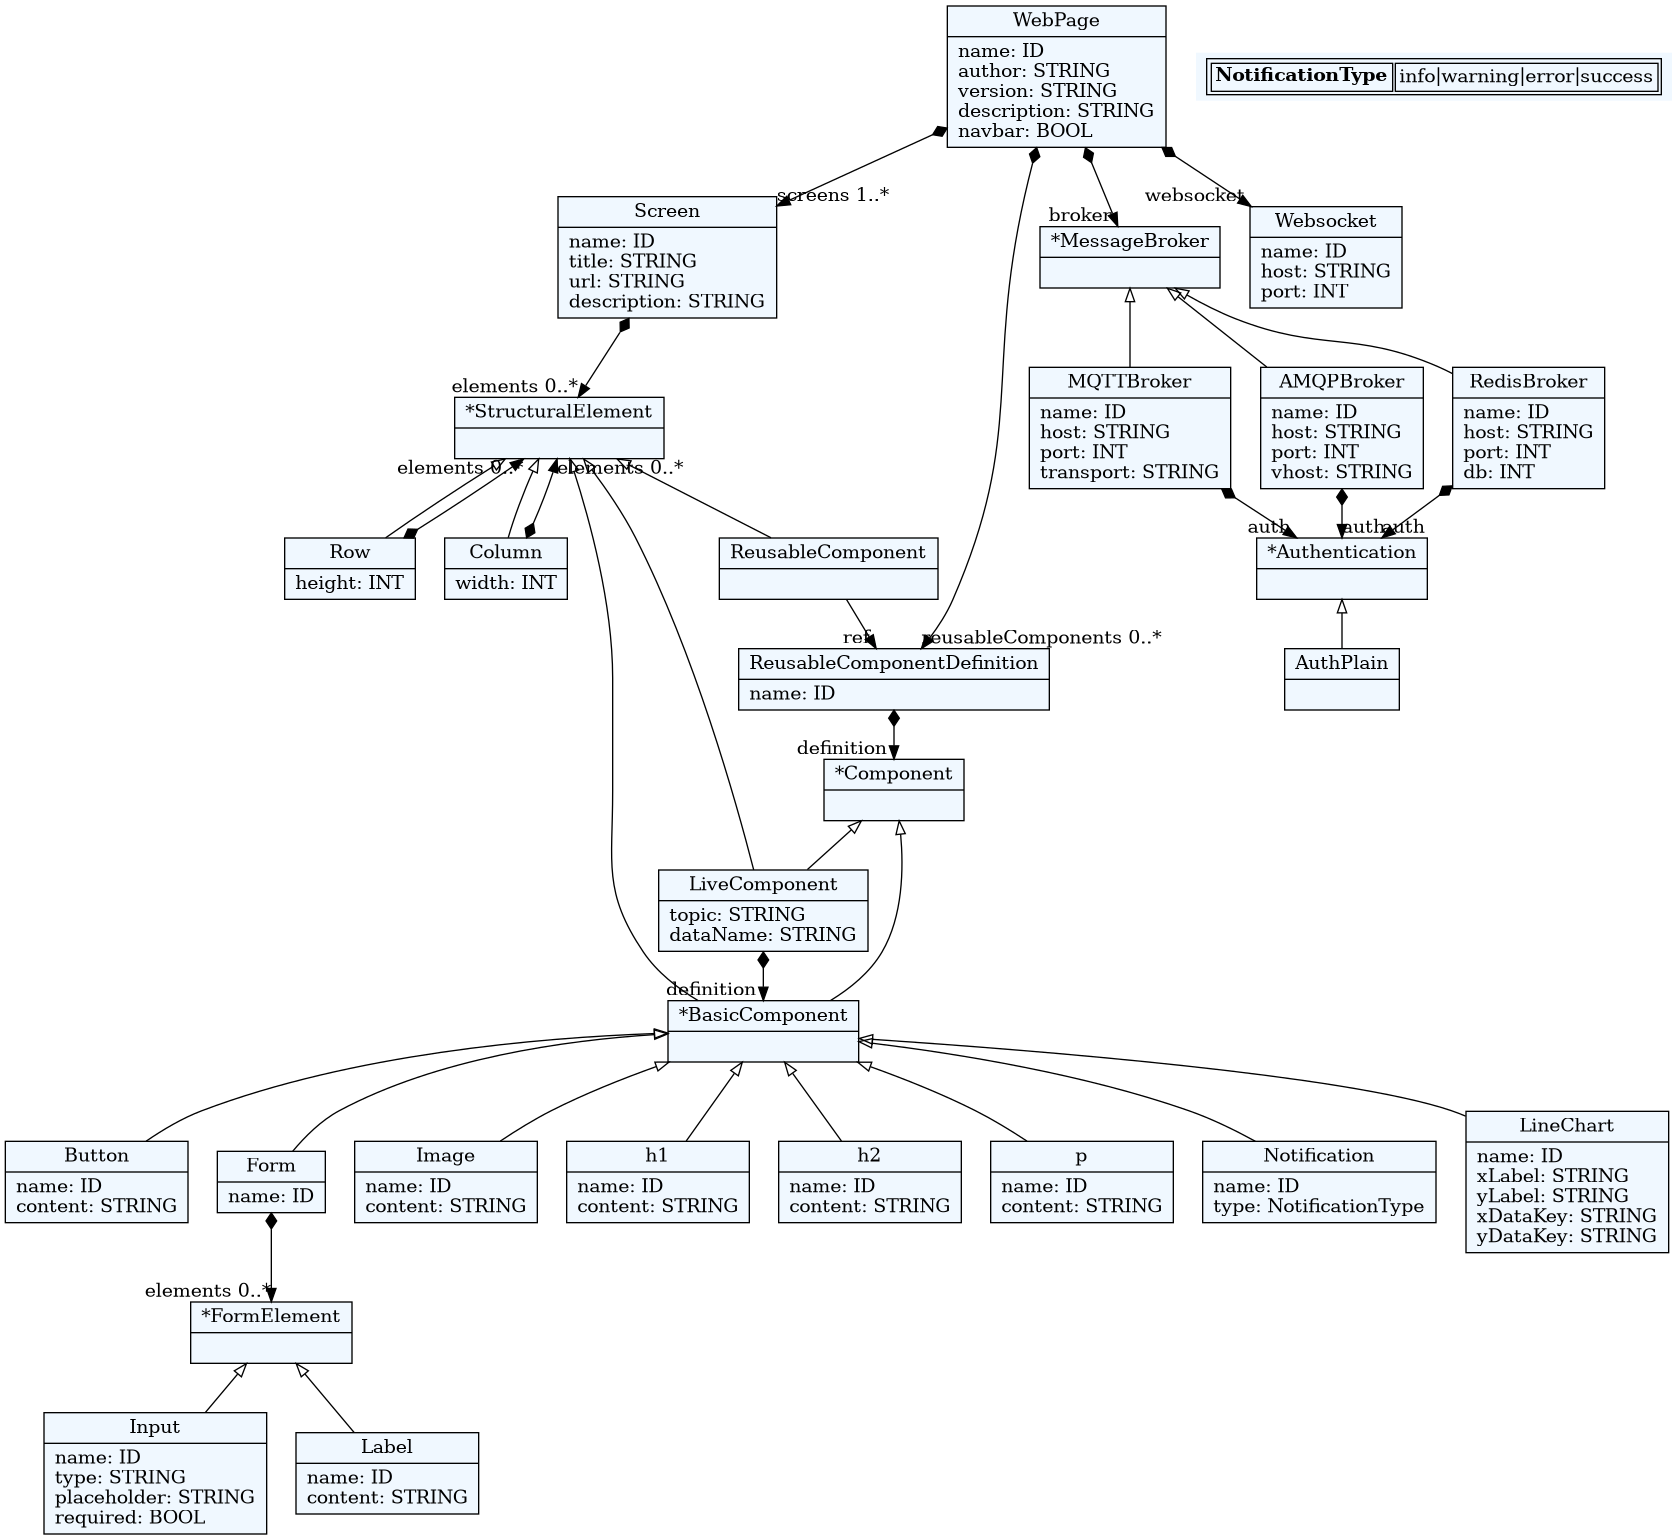
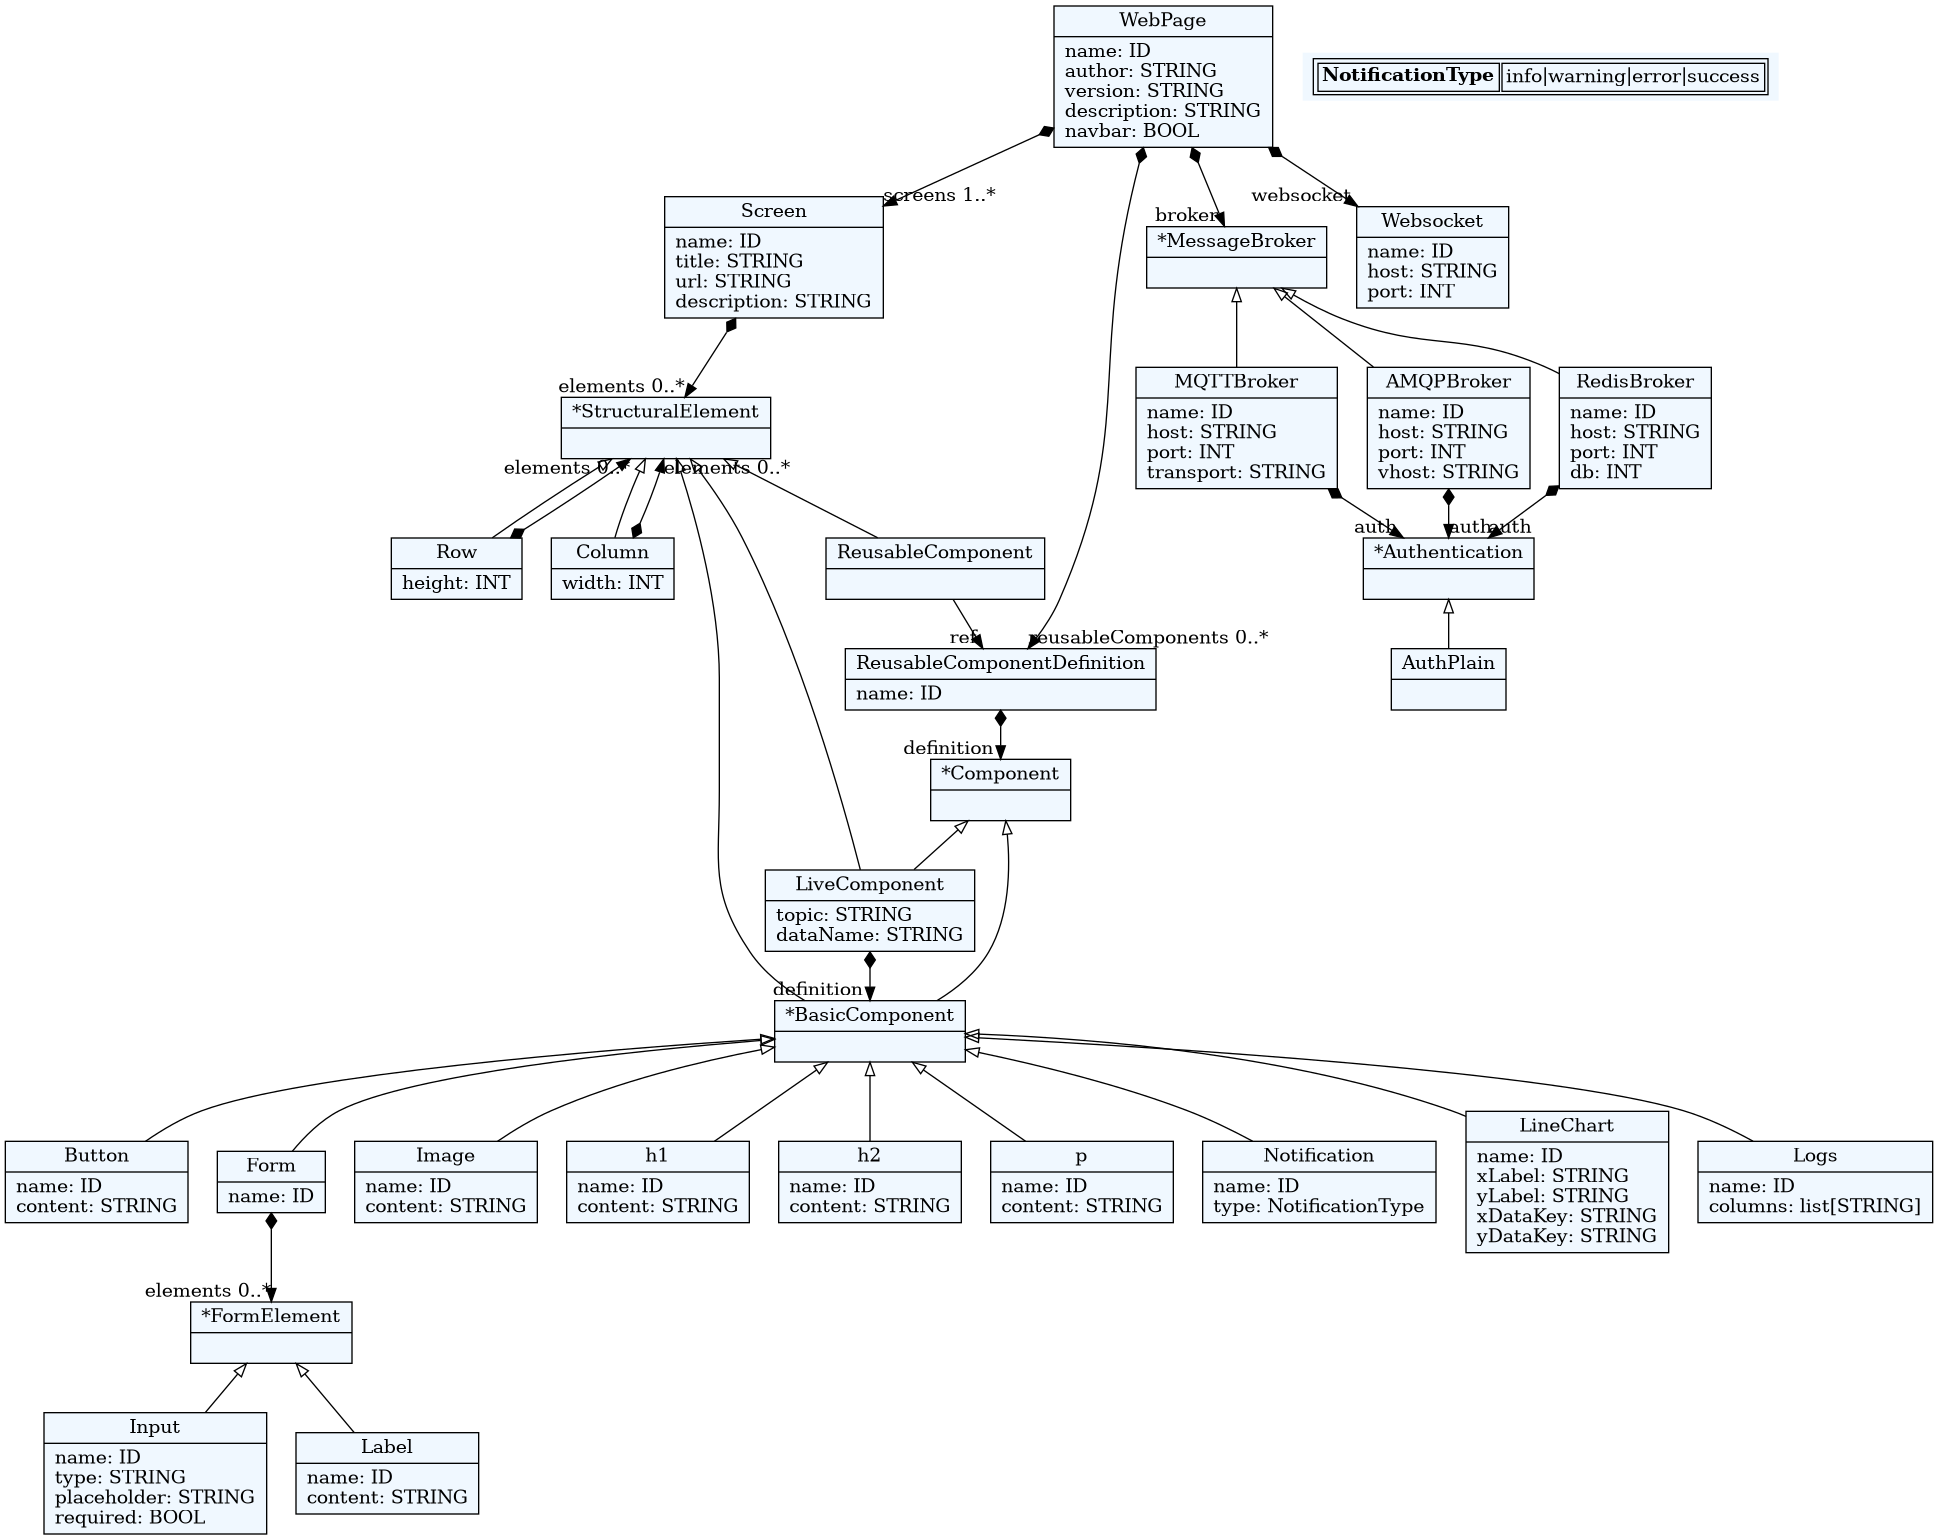
Added live logs component

diff --git a/web_dsl/base/frontend_base/src/index.css b/web_dsl/base/frontend_base/src/index.css
@@ -52,7 +52,7 @@ p {
     height: auto;
 }
 
-.col {
+.column {
     border: 1px solid #ea6962;
     padding: 10px;
     display: flex;

diff --git a/web_dsl/generate.py b/web_dsl/generate.py
@@ -30,6 +30,7 @@ live_component_template = frontend_env.get_template("live_component.jinja")
 custom_line_chart_template = frontend_env.get_template(
     "components/line_chart_template.jinja"
 )
+logs_template = frontend_env.get_template("components/logs_template.jinja")
 
 config_template = backend_env.get_template("config_template.jinja")
 dockerfile_template = backend_env.get_template("dockerfile_template.jinja")
@@ -109,8 +110,8 @@ def generate(model_path, gen_path):
     # Generate component files
     components_dir = os.path.join(gen_path, "frontend", "src", "components")
 
-    # CustomLineChart component
     for component in live_components:
+        # CustomLineChart component
         if component.definition.__class__.__name__ == "LineChart":
             custom_line_chart_output_file = os.path.join(
                 components_dir, "CustomLineChart.jsx"
@@ -122,6 +123,15 @@ def generate(model_path, gen_path):
                     )
                 )
             print(f"Generated: {custom_line_chart_output_file}")
+
+        # Logs component
+        if component.definition.__class__.__name__ == "Logs":
+            logs_output_file = os.path.join(components_dir, "Logs.jsx")
+            with open(logs_output_file, "w", encoding="utf-8") as f:
+                f.write(
+                    logs_template.render(element=component, logs=component.definition)
+                )
+            print(f"Generated: {logs_output_file}")
 
     # ========= Generate backend files============
 
